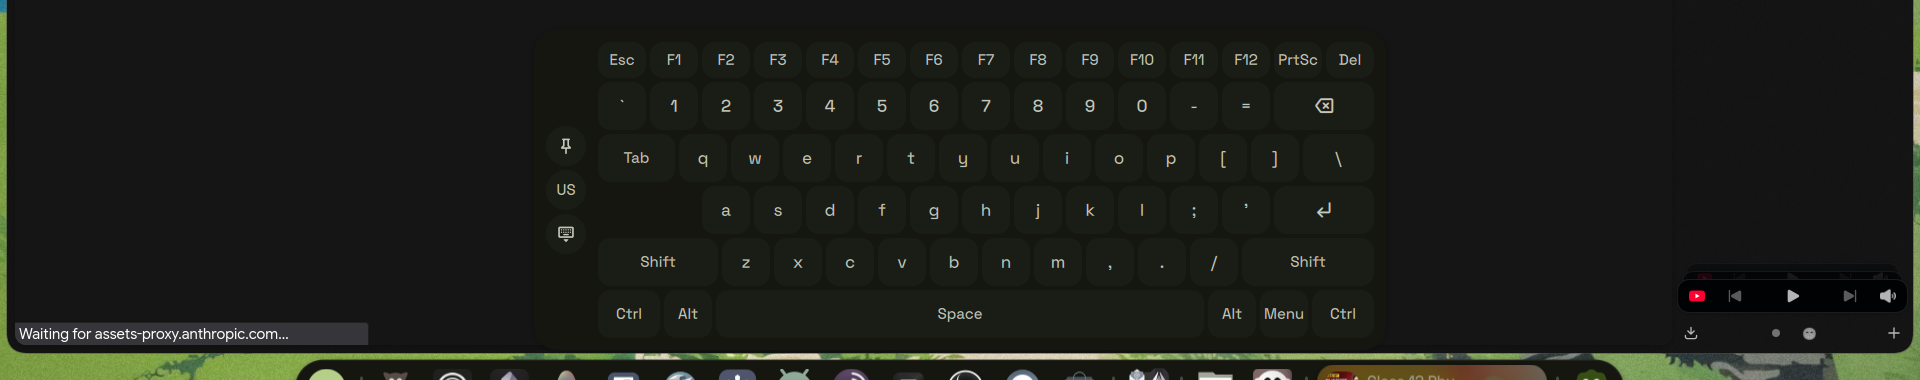
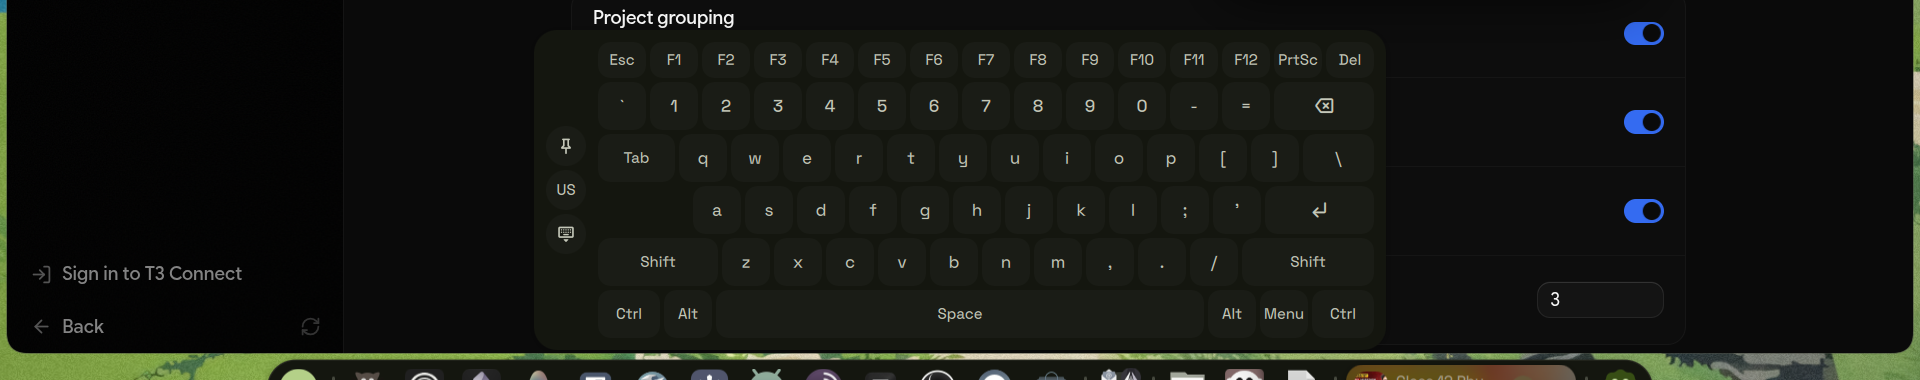
fix(ii-onScreenKeyboard): the open Caps slot was two 1u holes where the key is 1.9
Leaving Caps out is deliberate -- all three layouts comment it out with the same
note, "not needed as double-pressing shift does that", which is the 300ms
double-release in OskKey. What stood in for it was not: two `empty` spacers are
104px where the `caps` width already in the multiplier table is 91px, so every
home row sat 23px right of the row above when a physical keyboard puts it 7-14px
right. It read as a missing key rather than a stagger, and no gate saw it because
both numbers are perfectly legal.

One spacer at `shape: "caps"` now, which needed the model fixed first: spacer-ness
was keyed on `shape == "empty"`, so a spacer could only ever be one unit wide.
`keytype` says what a slot is and `shape` says only how wide, which is what the
data already meant -- every spacer in the file was already `keytype: "spacer"`.
`shape: "empty"` is gone.

German had a second hole, at the end of its home row, where Enter was commented
out because a DE Enter is tall and spans two rows. Both halves are keycode 28 and
both `expand`, so they fill to the same right edge: restoring it gives back the
one tall key rather than a gap under the Tab row's Enter.

check-osk.py gains the stagger: a row opens with at most one spacer, and that
spacer is within 16px of the key above it. Both regressions fail it. Verified
against all three layouts rendered together.

diff --git a/dots/.config/quickshell/ii/modules/ii/onScreenKeyboard/layouts.js b/dots/.config/quickshell/ii/modules/ii/onScreenKeyboard/layouts.js
@@ -62,8 +62,7 @@ const byName = {
             ],
             [
                 //{ keytype: "normal", label: "Caps", shape: "caps", keycode: 58 }, // not needed as double-pressing shift does that
-                { keytype: "spacer", label: "", shape: "empty" },
-                { keytype: "spacer", label: "", shape: "empty" },
+                { keytype: "spacer", label: "", shape: "caps" },
                 { keytype: "normal", label: "a", labelShift: "A", shape: "normal", keycode: 30 },
                 { keytype: "normal", label: "s", labelShift: "S", shape: "normal", keycode: 31 },
                 { keytype: "normal", label: "d", labelShift: "D", shape: "normal", keycode: 32 },
@@ -159,8 +158,7 @@ const byName = {
             ],
             [
                 //{ keytype: "normal", label: "Umschalt ⇩", shape: "caps", keycode: 58 },
-                { keytype: "spacer", label: "", shape: "empty" },
-                { keytype: "spacer", label: "", shape: "empty" },
+                { keytype: "spacer", label: "", shape: "caps" },
                 { keytype: "normal", label: "a", labelShift: "A", labelAlt: "æ", shape: "normal", keycode: 30 },
                 { keytype: "normal", label: "s", labelShift: "S", labelAlt: "ſ", shape: "normal", keycode: 31 },
                 { keytype: "normal", label: "d", labelShift: "D", labelAlt: "ð", shape: "normal", keycode: 32 },
@@ -173,8 +171,7 @@ const byName = {
                 { keytype: "normal", label: "ö", labelShift: "Ö", labelAlt: "˝", shape: "normal", keycode: 39 },
                 { keytype: "normal", label: "ä", labelShift: 'Ä', labelAlt: "^", shape: "normal", keycode: 40 },
                 { keytype: "normal", label: "#", labelShift: '\'', labelAlt: "’", shape: "normal", keycode: 43 },
-                { keytype: "spacer", label: "", shape: "empty" },
-                //{ keytype: "normal", label: "↵", shape: "expand", keycode: 28 }
+                { keytype: "normal", label: "↵", shape: "expand", keycode: 28 }
             ],
             [
                 { keytype: "modkey", label: "Shift", labelShift: "Shift ⇧", labelCaps: "Locked ⇩", shape: "shift", keycode: 42 },
@@ -260,8 +257,7 @@ const byName = {
                 { keytype: "normal", label: "\\", labelShift: "/", shape: "expand", keycode: 43 }
             ],
             [
-                { keytype: "spacer", label: "", shape: "empty" },
-                { keytype: "spacer", label: "", shape: "empty" },
+                { keytype: "spacer", label: "", shape: "caps" },
                 { keytype: "normal", label: "ф", labelShift: "Ф", shape: "normal", keycode: 30 },
                 { keytype: "normal", label: "ы", labelShift: "Ы", shape: "normal", keycode: 31 },
                 { keytype: "normal", label: "в", labelShift: "В", shape: "normal", keycode: 32 },

diff --git a/dots/.config/quickshell/ii/modules/ii/onScreenKeyboard/OskKey.qml b/dots/.config/quickshell/ii/modules/ii/onScreenKeyboard/OskKey.qml
@@ -37,8 +37,14 @@ RippleButton {
     })
     toggled: isShift ? Ydotool.shiftMode : false
 
-    enabled: shape != "empty"
-    colBackground: shape == "empty" ? ColorUtils.transparentize(Appearance.colors.colLayer1) : Appearance.colors.colLayer1
+    // `keytype` says what a slot is, `shape` only says how wide. A spacer holds the
+    // row's stagger -- the Caps slot every layout leaves open, because double-tapping
+    // Shift locks caps -- so it has to be sizeable, which keying this on the shape made
+    // impossible: two 1u holes stood in for one 1.9u key and pushed the home row 23px
+    // right of where a physical board puts it.
+    readonly property bool isSpacer: root.type === "spacer"
+    enabled: !root.isSpacer
+    colBackground: root.isSpacer ? ColorUtils.transparentize(Appearance.colors.colLayer1) : Appearance.colors.colLayer1
     buttonRadius: Appearance.rounding.small
     // Rounded, because a RowLayout hands a fractional width straight to the glyph
     // rasteriser. `?? 1` rather than `|| baseWidth`: the multiplier is missing for

diff --git a/tools/check-osk.py b/tools/check-osk.py
@@ -27,6 +27,7 @@ Run: python3 tools/check-osk.py
 """
 import json
 import re
+from itertools import takewhile
 import sys
 from pathlib import Path
 
@@ -217,8 +218,42 @@ for s in sorted(shapes):
     assert h >= 32, f"shape {s!r} is {h}px tall; 32px is the pointer-target floor (DESIGN.md 3.4)"
     assert w >= 32, f"shape {s!r} is {w}px wide"
 
-# The widest row plus the rail and the padding has to fit a small laptop panel.
 RAIL, PAD, GAP = 40, 12, 4
+
+# A spacer paints nothing and takes no input because of its `keytype`, never its
+# `shape` -- `shape` is only a width. Keying it on the shape is what forced the open
+# Caps slot to be two 1u holes instead of one 1.9u one.
+assert 'shape: "empty"' not in layouts_js, (
+    'a spacer carries a width token ("caps", "normal", ...) and keytype "spacer"; '
+    '"empty" was a shape that meant both at once and could only ever be 1 unit wide'
+)
+assert 'root.type === "spacer"' in key and '"empty"' not in key, (
+    "OskKey must decide spacer-ness from keytype, not from shape"
+)
+
+# The stagger. A spacer stands in for a key the layout leaves out -- the Caps slot,
+# because double-tapping Shift locks caps -- so it has to be that key's width. Two
+# stacked 1u spacers cannot be any real modifier's width (the narrowest, `control`, is
+# 1.3u) and pushed every home row 23px right of where a physical board puts it. No
+# other gate sees this: both widths are perfectly legal numbers.
+STAGGER_MAX = 16  # Caps 1.9u - Tab 1.6u = 14px at a 48px unit
+for name, l in LAYOUTS.items():
+    for i, row in enumerate(l["rows"]):
+        lead = list(takewhile(lambda k: k.get("keytype") == "spacer", row))
+        assert len(lead) <= 1, (
+            f"{name} row {i} opens with {len(lead)} spacers; one slot, one spacer -- "
+            "stacking them can only ever land on a multiple of the key unit"
+        )
+        if not lead or i == 0:
+            continue
+        here = round(base * W.get(lead[0].get("shape"), 1))
+        above = round(base * W.get(l["rows"][i - 1][0].get("shape"), 1))
+        assert abs(here - above) <= STAGGER_MAX, (
+            f"{name} row {i} opens with a {here}px spacer under a {above}px key; more "
+            f"than {STAGGER_MAX}px apart reads as a missing key, not a stagger"
+        )
+
+# The widest row plus the rail and the padding has to fit a small laptop panel.
 for name, l in LAYOUTS.items():
     assert l["rows"], f"{name} parsed to no rows"
     widest = max(sum(round(base * W.get(k.get("shape"), 1)) for k in r) + GAP * (len(r) - 1)

diff --git a/.audit/ii-onScreenKeyboard/notes.md b/.audit/ii-onScreenKeyboard/notes.md
@@ -43,6 +43,28 @@
   container that happens to be the group's own size, which is why this has not been
   seen. Worth a look during the shared-widget follow-ups.
 
+## The open Caps slot (follow-up, same day)
+
+The two `empty` spacers in every home row are deliberate -- all three layouts comment
+Caps out with the same note, *"not needed as double-pressing shift does that"*, which is
+the 300ms double-release in `OskKey.qml`. The stagger they left behind was not: two 1u
+holes are 104px where the `caps` width already in the table is 91px, so every home row
+sat **23px** right of the row above when a physical board puts it 7-14px right. Now one
+spacer at `shape: "caps"`, and spacer-ness moved off the shape onto `keytype: "spacer"`
+-- `shape` is a width token and nothing else, which is what made a sizeable spacer
+impossible before. `shape: "empty"` no longer exists.
+
+German had a second hole at the *end* of its home row, where Enter was commented out
+because a DE Enter is tall and spans two rows. Both halves are keycode 28 and both
+`expand`, so restoring it gives two Enters that fill to the same right edge and read as
+the one tall key again -- verified against all three layouts rendered together.
+
+**Not done: the real Caps key.** Keycode 58 through ydotool would toggle the system's
+caps lock, but this shell models shift state itself (`Ydotool.shiftMode`), so the OSK
+would keep rendering lowercase while the user typed uppercase. That is wiring, not a
+data edit. Worth noting that nothing on the surface says double-tap-Shift exists --
+`labelCaps` only appears once caps is already locked.
+
 ## Tried and rejected
 
 - **`asynchronous: true` on the Loader.** A first probe showed the rise starting at
